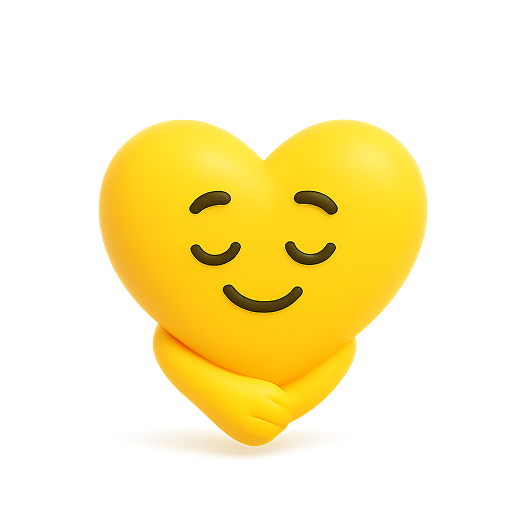
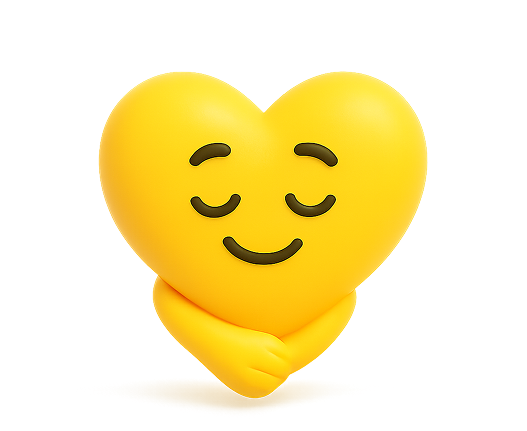
mypage chat front merge

diff --git a/senpick/static/css/profile_delete.css b/senpick/static/css/profile_delete.css
@@ -1,11 +1,15 @@
 /* profile_delete.css */
 
+html {
+  scroll-behavior: smooth;
+}
+
 /* 카드 본체 */
 .modal-card {
   background: #fff;
   border-radius: 16px;
   /* box-shadow: 0 4px 32px rgba(0,0,0,0.1); */
-  padding: 50px;
+  /* padding: 50px; */
   display: flex;
   flex-direction: column;
   align-items: stretch;
@@ -170,6 +174,11 @@ label.step-option.step-option-other.active {
   padding: auto;
 }
 
+.img-wrapper img {
+  width: 400px;
+  height: auto;
+}
+
 /* ---------------profile_delete.html---------------- */
 .step {
   display: none;
@@ -182,6 +191,7 @@ label.step-option.step-option-other.active {
 .modal-card h2 {
   font-size: 25px;
   font-weight: bold;
+  margin-bottom: 0;
 }
 
 .modal-card h2 .font-cafe24 {
@@ -192,13 +202,17 @@ label.step-option.step-option-other.active {
   font-family: 'Cafe24Supermagic', cursive;
 }
 
+.modal-card p {
+  font-size: 16px;
+}
+
 .withdraw-card {
   text-align: center;
   margin: 0 auto;
 }
 
 .withdraw-card img {
-  max-width: 450px;
+  max-width: 400px;
 }
 
 .withdraw-card p {
@@ -214,20 +228,16 @@ label.step-option.step-option-other.active {
   align-items: center;
   gap: 20px;
   margin-top: 32px;
-  width: 500px;
-  height: 45px;
-  background-color: #F5F5F8;
-  border-radius: 12px;
+  /* width: 500px; */
+  /* height: 45px; */
+  /* background-color: #F5F5F8;
+  border-radius: 12px; */
   transition: background-color 0.2s ease;
-  align-self: center;;
+  align-self: center;
 }
 
 .modal-buttons button.cancel-btn {
   background-color: transparent;
-}
-
-.modal-buttons:hover{
-  background-color: #FFE900;
 }
 
 .think-again-btn {
@@ -348,5 +358,12 @@ label.step-option.step-option-other.active {
 }
 
 .center-card-container {
-  align-self: center;;
+  align-self: center;
+  flex-grow: 1;
+  background: white;
+  border-radius: 24px;
+  padding: 48px 70px;
+  max-width: 760px;
+  margin: 0 auto;
+  max-height: 750px;
 }

diff --git a/senpick/app/templates/profile/profile_password_confirm.html b/senpick/app/templates/profile/profile_password_confirm.html
@@ -19,19 +19,17 @@
         {% include "sidebar.html" %}
         <div class="layout">
           <!-- 우측 프로필 수정 메인 영역 -->
-          <div class="profile-main-wrapper" style="padding-top: 0; align-self: center;">
-            <div class="center-card-container">
-                  <div class="modal-card">
-                    <h1>새 비밀번호가 설정되었어요.</h1>
-                    <p>새로운 비밀번호로 새롭게 로그인해주세요.</p>
-                    <div class="img-wrapper">
-                      <img src="{% static 'images/delete_confirm.png' %}" alt="하트 아이콘" class="heart-icon" width="500">
-                    </div>
-                    <div class="modal-buttons">
-                      <button class="cancel-btn" onclick="location.href=`{% url 'login' %}`">로그인 하기</button>
-                    </div>
-                  </div>
-                </div>
+          <div class="center-card-container">
+            <div class="modal-card">
+              <h2>그동안 <span class="font-cafe24">Senpick</span>과 함께해주셔서 감사합니다 :)</h2>
+              <p>언제든 다시 찾아주세요.</p>
+              <div class="img-wrapper">
+                <img src="{% static 'images/delete_confirm.png' %}" alt="탈퇴 완료">
+              </div>            
+              <div class="modal-buttons">
+                <button class="think-again-btn" onclick="window.location.href='/login/'">센픽 홈으로 가기</button>
+              </div>
+            </div>
           </div>
         </div>
     </div>

diff --git a/senpick/app/templates/profile/profile_delete_confirm.html b/senpick/app/templates/profile/profile_delete_confirm.html
@@ -21,17 +21,17 @@
           <!-- 우측 프로필 수정 메인 영역 -->
           <div class="profile-main-wrapper" style="padding-top: 0; align-self: center;">
             <div class="center-card-container">
-                  <div class="modal-card">
-                    <h1>그동안 <span class="font-b">Senpick</span>과 함께해주셔서 감사합니다 :)</h1>
-                    <p>언제든 다시 찾아주세요</p>
-                    <div class="img-wrapper">
-                      <img src="{% static 'images/delete_confirm.png' %}" alt="하트 아이콘" class="heart-icon" width="500">
-                    </div>
-                    <div class="modal-buttons">
-                      <button class="cancel-btn" onclick="location.href=`{% url 'login' %}`">센픽 홈으로 가기</button>
-                    </div>
-                  </div>
+              <div class="modal-card">
+                <h1>그동안 <span class="font-b">Senpick</span>과 함께해주셔서 감사합니다 :)</h1>
+                <p>언제든 다시 찾아주세요</p>
+                <div class="img-wrapper">
+                  <img src="{% static 'images/delete_confirm.png' %}" alt="하트 아이콘" class="heart-icon" width="500">
                 </div>
+                <div class="modal-buttons">
+                  <button class="cancel-btn" onclick="location.href=`{% url 'login' %}`">센픽 홈으로 가기</button>
+                </div>
+              </div>
+            </div>
           </div>
         </div>
     </div>

diff --git a/senpick/app/templates/profile/profile_delete.html b/senpick/app/templates/profile/profile_delete.html
@@ -107,8 +107,21 @@
     function goToStep(stepNumber) {
       const steps = document.querySelectorAll('.step');
       steps.forEach(step => step.classList.remove('active'));
-      document.getElementById(`step${stepNumber}`).classList.add('active');
+    
+      const targetStep = document.getElementById(`step${stepNumber}`);
+      targetStep.classList.add('active');
+    
+      // 내부 스크롤 컨테이너로 이동 (예: .profile-main-wrapper)
+      const scrollContainer = document.querySelector('.profile-main-wrapper');
+      if (scrollContainer) {
+        scrollContainer.scrollTo({ top: 0, behavior: 'smooth' });
+      } else {
+        // fallback
+        window.scrollTo({ top: 0, behavior: 'smooth' });
+      }
     }
+
+
   
     document.addEventListener("DOMContentLoaded", function () {
       const stepOptions = document.querySelectorAll('.step-option');

diff --git a/senpick/static/css/chat.css b/senpick/static/css/chat.css
@@ -127,10 +127,10 @@ body {
   border: none;
   outline: none;
   background: transparent;
-  font-size: 17px;
+  font-size: 16px;
   flex: 1;
   padding: 8px 0;
-  color: #222;
+  color: #2e2e2e;
 }
 
 .chat-input-wrap input::placeholder {

diff --git a/senpick/static/css/profile_info.css b/senpick/static/css/profile_info.css
@@ -4,7 +4,7 @@
     padding: 150px 0;
     overflow-y: scroll;
     scrollbar-width: none;
-    padding: 26px;
+    /* padding: 26px; */
 }
 .profile-main {
   flex-grow: 1;

diff --git a/senpick/static/css/birth.css b/senpick/static/css/birth.css
@@ -67,7 +67,7 @@
 .birth-container h1 {
     display: flex;
     align-items: center;
-    font-size: 38px;
+    font-size: 32px;
     margin: 10px 0;
 }
 
